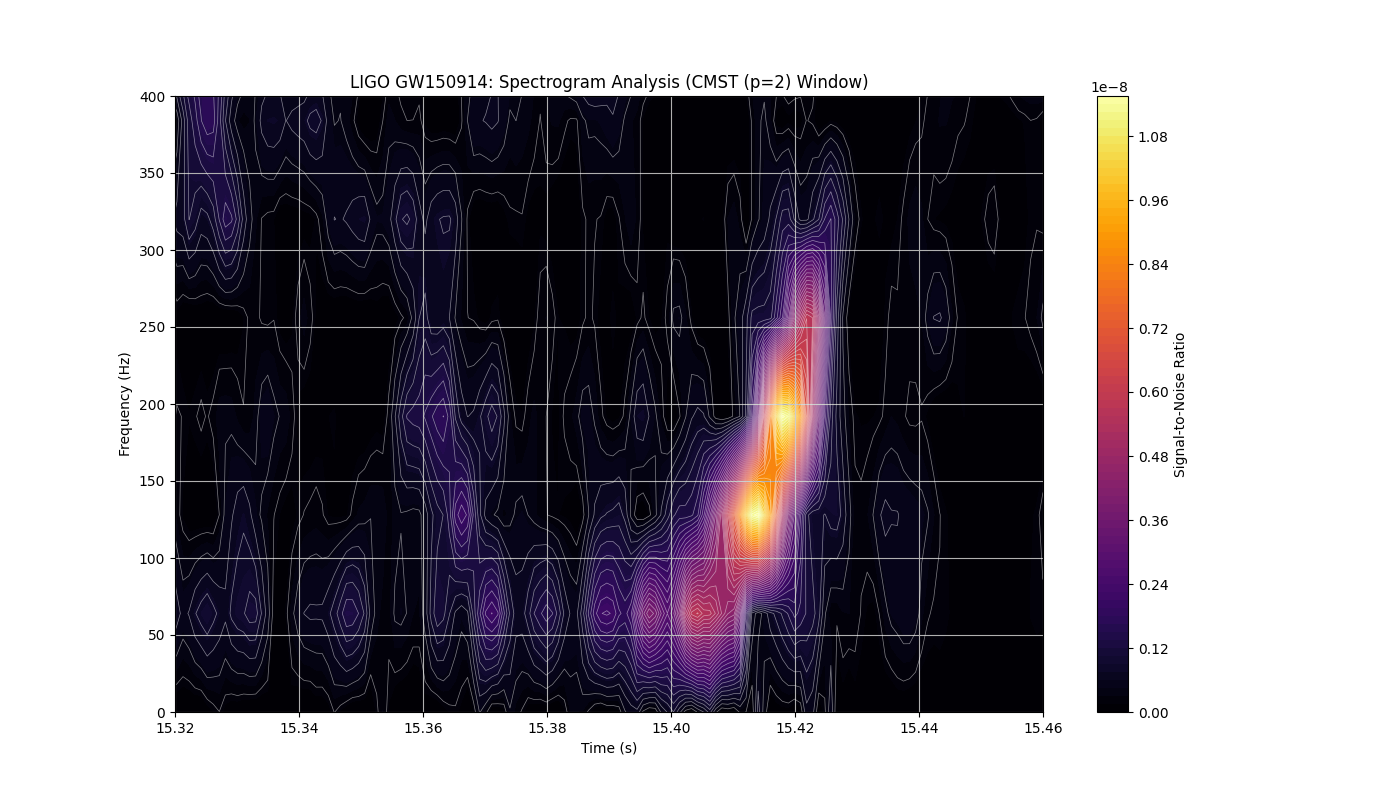
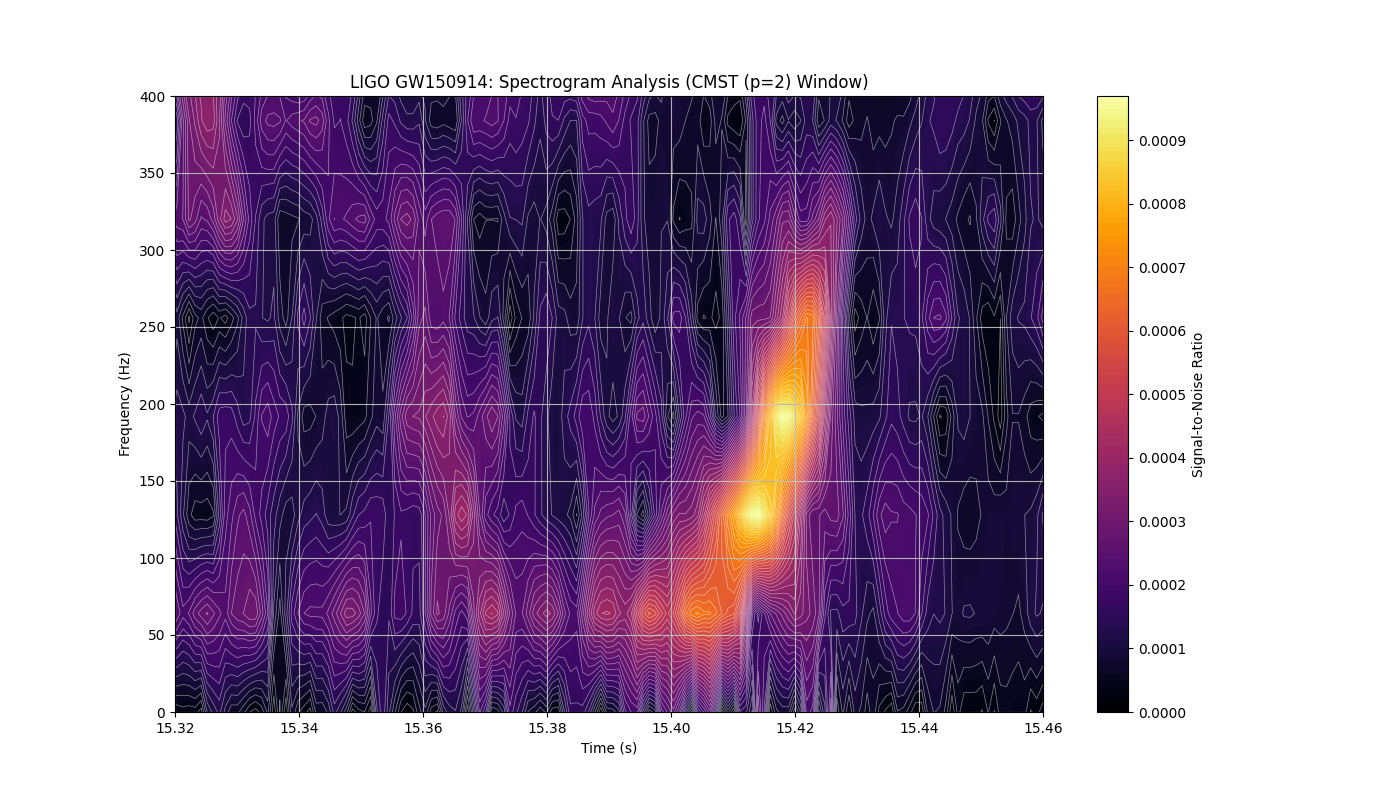
Changed to amplitude rather than power

diff --git a/examples/14_the_chirp.py b/examples/14_the_chirp.py
@@ -68,10 +68,20 @@ try:
     print(f"Calculated alpha: {alpha}")
 
     # 2. Compute Spectrogram
-    f, t_spec, Sxx = spectrogram(whitened_strain, fs, 
-                                 window=win_seg, 
-                                 nperseg=NFFT, 
-                                 noverlap=noverlap)
+#    f, t_spec, Sxx = spectrogram(whitened_strain, fs, 
+#                                 window=win_seg, 
+#                                 nperseg=NFFT, 
+#                                 noverlap=noverlap)
+    # Compute Spectrogram (defaults to Power)
+    f, t_spec, Sxx_power = spectrogram(whitened_strain, fs, 
+                                   window=win_seg, 
+                                   nperseg=NFFT, 
+                                   noverlap=noverlap,
+                                   scaling='spectrum') # 'spectrum' ensures units are V^2
+
+    # Convert Power to Amplitude (Linear Magnitude)
+    Sxx = np.sqrt(Sxx_power)
+
 
     # 3. Frequency-Domain Laplacian Sharpening
     # S_sharp = S - alpha * Laplacian_f(S)